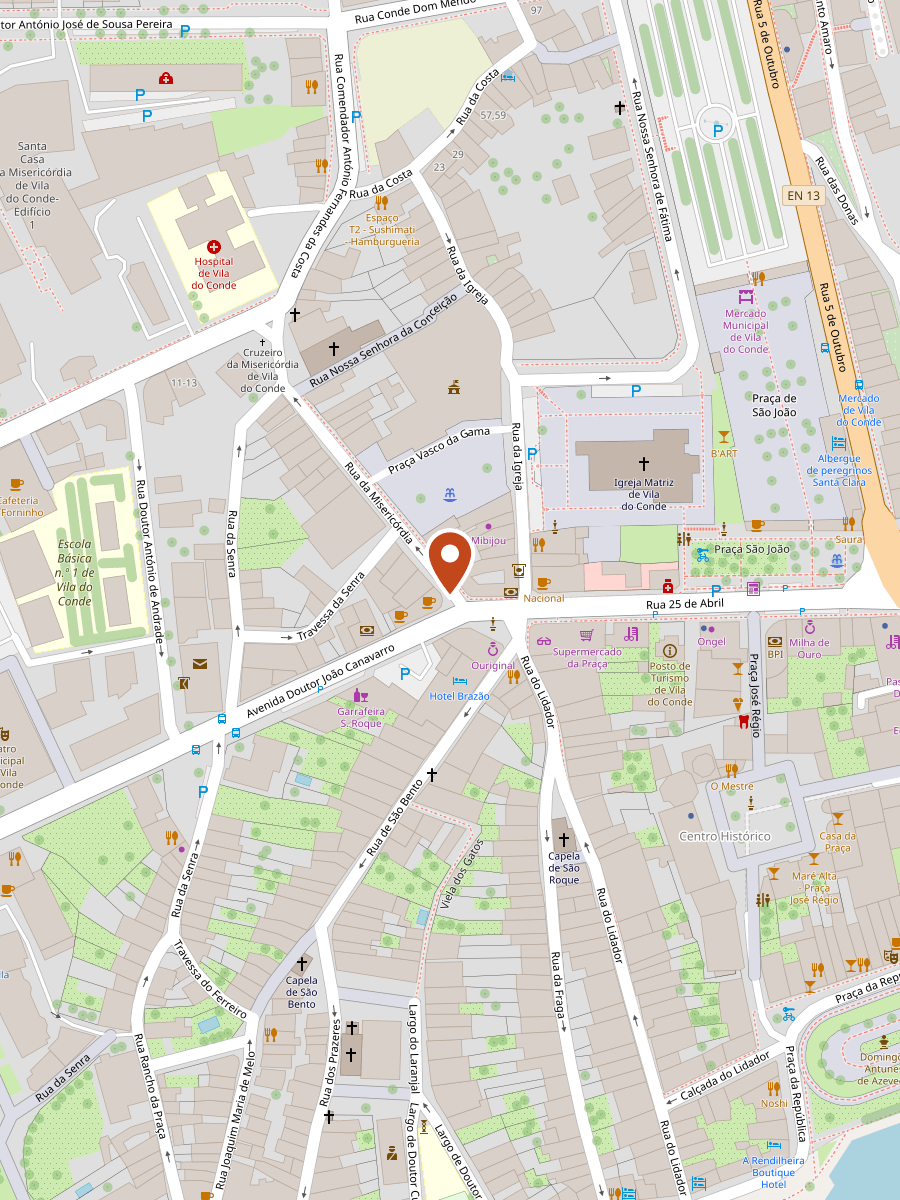
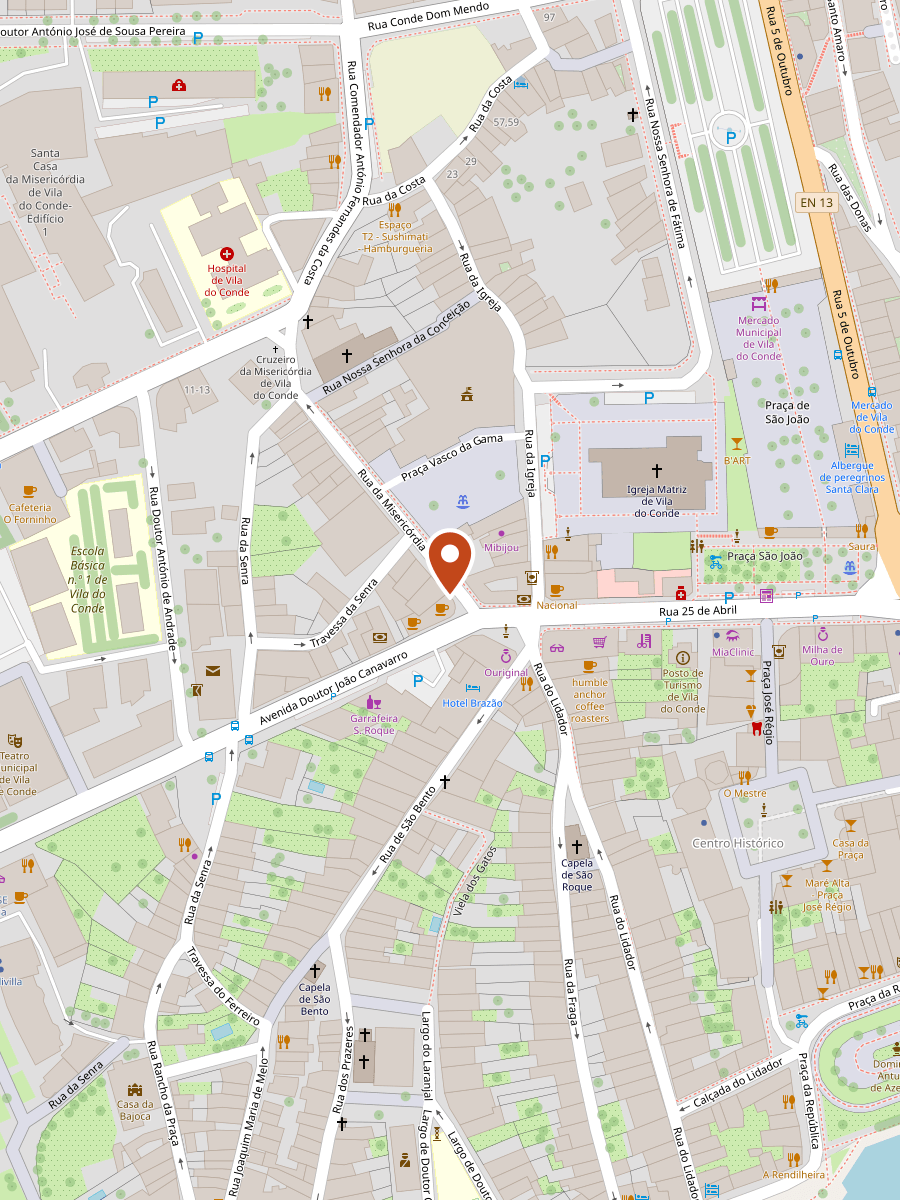
fix: stop the portrait static-map image being squashed and add loading and fetchpriority params

diff --git a/layouts/shortcodes/static-map.html b/layouts/shortcodes/static-map.html
@@ -60,6 +60,9 @@
     - "source" imagery provider, to emit the credit it requires. Only
                "openstreetmap" is known; anything else needs "credit"
     - "credit" attribution HTML, overriding "source" (default empty)
+    - "loading" "lazy" or "eager" (default "lazy"). Use "eager" for a map near
+               the top of the page, where it is the largest contentful paint
+    - "fetchpriority" "high", "low" or "auto", emitted only when set
 
   Example:
 
@@ -125,6 +128,8 @@
 {{- $alt := .Get "alt" | default (printf "Map of %s" $address) -}}
 {{- $sizes := .Get "sizes" | default "100vw" -}}
 {{- $target := .Get "target" | default "_blank" -}}
+{{- $loading := .Get "loading" | default "lazy" -}}
+{{- $fetchpriority := .Get "fetchpriority" -}}
 
 {{- $credit := .Get "credit" -}}
 {{- if and (not $credit) (eq (.Get "source") "openstreetmap") -}}
@@ -143,13 +148,13 @@
       {{- end }}
       {{- if $narrow }}
     <picture>
-      <source media="{{ $mobileMedia }}" srcset="{{ $narrow.srcset }}" sizes="{{ $sizes }}">
+      <source media="{{ $mobileMedia }}" srcset="{{ $narrow.srcset }}" sizes="{{ $sizes }}" width="{{ $narrow.fallback.Width }}" height="{{ $narrow.fallback.Height }}">
       {{- end }}
     <img src="{{ $wide.fallback.RelPermalink }}"
          srcset="{{ $wide.srcset }}"
          sizes="{{ $sizes }}"
          width="{{ $wide.fallback.Width }}" height="{{ $wide.fallback.Height }}"
-         loading="lazy" decoding="async"
+         loading="{{ $loading }}" decoding="async"{{ with $fetchpriority }} fetchpriority="{{ . }}"{{ end }}
          alt="{{ $alt }}">
       {{- if $narrow }}
     </picture>

diff --git a/assets/sass/custom.scss b/assets/sass/custom.scss
@@ -107,6 +107,9 @@ a /*.feather*/ {
     img {
         display: block;
         width: 100%;
+        // The height attribute is a ratio hint; left fixed, it squashes the
+        // portrait mobileImage into the wide image's box.
+        height: auto;
     }
 }
 

diff --git a/exampleSite/content/contact.md b/exampleSite/content/contact.md
@@ -13,4 +13,4 @@ menu:
 
 ## Where we are
 
-{{< static-map source="openstreetmap" >}}
+{{< static-map source="openstreetmap" loading="eager" fetchpriority="high" >}}
